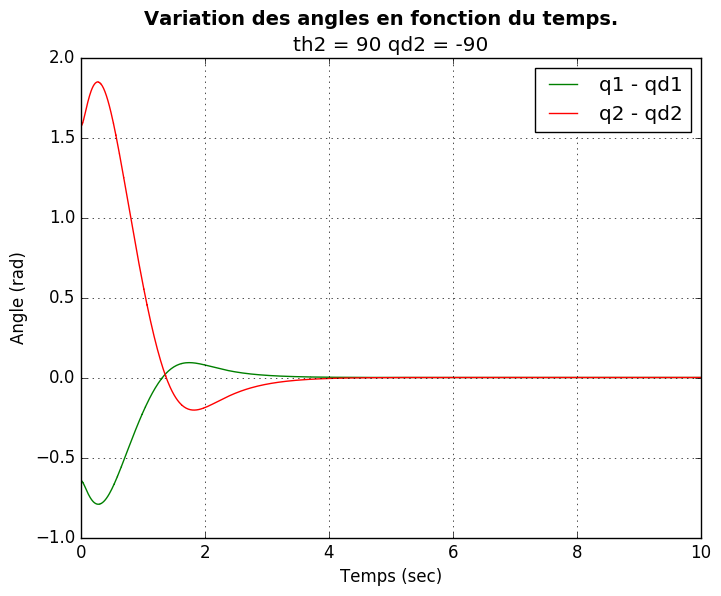
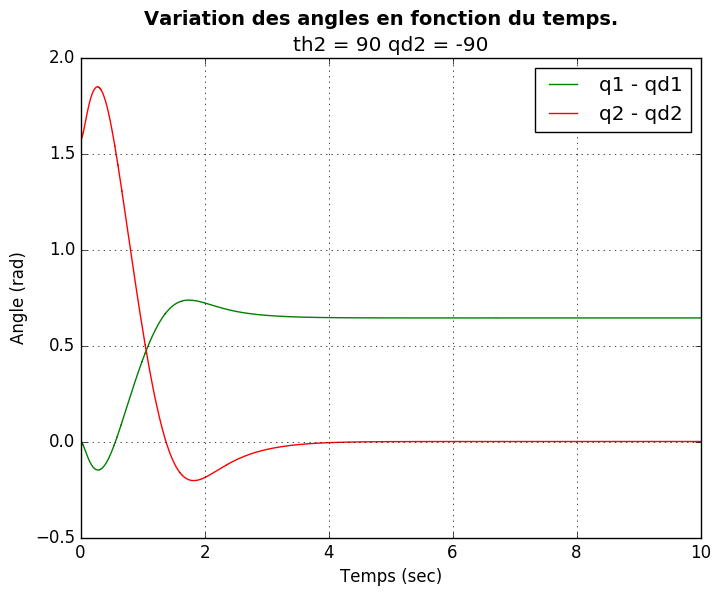
plot

diff --git a/Code/test.py b/Code/test.py
@@ -93,8 +93,8 @@ def derivs(state, t):
     dq1 = state[1]
     q2 = state[2]
     dq2 = state[3]
-    tab[0] += [q1 - qd1]
-    tab[1] += [q2 - qd2]
+    tab[0] += [q1 - pi/2]
+    tab[1] += [q2]
     tab[2] += [t]
 
     d11 = m1 * lc1 ** 2 + m2 * (l1 ** 2 + lc2 ** 2 + 2 * l1 * lc2 * cos(q2)) + I1 + I2
